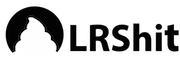
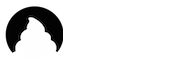
new images, better lingo, charts

Changed region(s): [[0.3889, 0.3143, 1.0, 0.7429], [0.3333, 0.4286, 0.3611, 0.5714]]

diff --git a/client/app/stall/stall.controller.js b/client/app/stall/stall.controller.js
@@ -11,30 +11,7 @@ function translate(buckets) {
   return retVal;
 }
 
-angular.module('shiternetApp')
-    .controller('StallCtrl', function($scope, $stateParams, $http) {
-        $scope.message = 'Hello';
-        var id = $stateParams.stallId
-        var endDate = moment().valueOf();
-        $http.get('/api/analytics/stats/?stallId='+id+'&start=0&end='+endDate+'').then(response => {
-          $scope.data = translate(response.data.stats.buckets);
-          console.log($scope.data);
-          $scope.data = [
-            {
-                "key" : "TIS (Time in Stall)" ,
-                "bar": true,
-                "values" : translate(response.data.stats.buckets)
-            }];
-        });
-        $http.get('/api/stalls/'+id).then(response => {
-          console.log(response.data);
-          $scope.stall = response.data;
-        });
-        $http.get('/api/analytics/metrics/?stallId='+id+'&start=0&end='+endDate+'').then(response => {
-          $scope.min = moment.duration(response.data.min, "milliseconds").humanize();
-          $scope.max = moment.duration(response.data.max, "milliseconds").humanize();
-        });
-        $scope.options = {
+var options = {
           chart: {
               type: 'historicalBarChart',
               height: 450,
@@ -82,4 +59,34 @@ angular.module('shiternetApp')
               }
           }
         };
+
+angular.module('shiternetApp')
+    .controller('StallCtrl', function($scope, $stateParams, $http) {
+        $scope.message = 'Hello';
+        var id = $stateParams.stallId
+        var endDate = moment().valueOf();
+        $scope.options = options;
+        $scope.data = [
+          {
+              "key" : "TIS (Time in Stall)" ,
+              "bar": true,
+              "values" : []
+        }];
+        $http.get('/api/analytics/stats/?stallId='+id+'&start=0&end='+endDate+'').then(response => {
+          $scope.data = [
+            {
+                "key" : "TIS (Time in Stall)" ,
+                "bar": true,
+                "values" : translate(response.data.stats.buckets)
+            }];
+        });
+        $http.get('/api/stalls/'+id).then(response => {
+          console.log(response.data);
+          $scope.stall = response.data;
+        });
+        $http.get('/api/analytics/metrics/?stallId='+id+'&start=0&end='+endDate+'').then(response => {
+          $scope.min = moment.duration(response.data.min, "milliseconds").humanize();
+          $scope.max = moment.duration(response.data.max, "milliseconds").humanize();
+        });
+
 });

diff --git a/server/config/seed.js b/server/config/seed.js
@@ -14,50 +14,6 @@ Thing.find({}).removeAsync()
 
 User.find({}).removeAsync();
 
-Activity.find({}).removeAsync()
-.then(function(){
-   Activity.createAsync({
-      stallId: 1,
-      active: false,
-      time: "2015-12-07T17:07:53-00:00"
-   },
-   {
-      stallId: 1,
-      active: true,
-      time: "2015-12-09T17:07:58-00:00"
-   },
-   {
-      stallId: 1,
-      active: false,
-      time: "2015-12-09T18:08:04-00:00"
-   },
-   {
-      stallId: 1,
-      active: true,
-      time: "2015-12-09T19:08:09-00:00"
-   },
-   {
-      stallId: 1,
-      active: false,
-      time: "2015-12-09T20:08:12-00:00"
-   },
-   {
-      stallId: 1,
-      active: true,
-      time: "2015-12-09T21:08:15-00:00"
-   },
-   {
-      stallId: 2,
-      active: true,
-      time: "2015-12-09T21:08:18-00:00"
-   },
-   {
-      stallId: 2,
-      active: true,
-      time: "2015-12-05T23:07:53-00:00"
-   }
-)
-});
 Activity.find({}).removeAsync();
 
 Stall.find({}).removeAsync()

diff --git a/client/app/main/main.controller.js b/client/app/main/main.controller.js
@@ -10,13 +10,20 @@ class MainController {
     this.available = true;
     this.body = angular.element('body');
     this.availableSayings = [
-      'Go ahead and empty out that spaghetti hole.',
-      "She's all yours."
+      "Now's the time.",
+      "Get get'er tiger.",
+      "She's all yours.",
+      "Yep.",
+      "If you don't go after what you want, you'll never have it.",
+      "Don't let your dreams be dreams."
     ]
 
     this.occupiedSayings = [
       'No poop for you',
-      "Hold it."
+      "Hold it.",
+      "Waiting is the hardest part.",
+      "Nope.",
+      "Occupado"
     ]
 
     $http.get('/api/stalls').then(response => {

diff --git a/client/app/main/main.html b/client/app/main/main.html
@@ -9,7 +9,7 @@
     <div class="col-lg-12">
       <ul class="stall-list">
         <li class="stall-item" ng-class="!stall.active ? '' : 'unavailable'" ng-repeat="stall in main.stalls" ng-click="main.redirect(stall.stallId)">
-          <h1><span class="toilet">🚽 </span>{{stall.info === "handicapped" ? "♿" : ""}}</h1>
+          <h1><span class="toilet">🚽 </span>{{stall.handicapped ? "♿" : ""}}</h1>
           <div class="stall-status pull-right">
             {{!stall.active ? "👍💩🎉💯" : "✋🚫🌚💣"}}
           </div>

diff --git a/server/api/stall/stall.controller.js b/server/api/stall/stall.controller.js
@@ -112,6 +112,13 @@ exports.create = function(req, res) {
       req.body.active = false;
     }
   }
+  if(req.body.handicapped && typeof req.body.handicapped === "string"){
+    if(req.body.handicapped === "True"){
+      req.body.handicapped = true;
+    } else if(req.body.handicapped === "False"){
+      req.body.handicapped = false;
+    }
+  }
   Stall.findOneAndUpdate({
     "stallId": req.body.stallId
   }, req.body , {

diff --git a/client/index.html b/client/index.html
@@ -7,7 +7,7 @@
     <meta charset="utf-8">
     <meta http-equiv="x-ua-compatible" content="ie=edge">
     <base href="/">
-    <title>LRShit</title>
+    <title>Bathroom Monitor Freemium Beta</title>
     <meta name="description" content="">
     <meta name="viewport" content="width=device-width">
     <meta name="apple-mobile-web-app-capable" content="yes" />

diff --git a/client/components/navbar/navbar.html b/client/components/navbar/navbar.html
@@ -9,9 +9,6 @@
     <a ng-click="nav.goHome()" class="navbar-brand">
       <img src="/assets/images/LRShit_text.png"/>
     </a>
-    <!-- <button class="navbar-toggle pull-left home-button" type="button" ng-click="nav.goHome()">
-      <a class=""<h1></h1>
-    </button> -->
   </div>
 </div>
 
